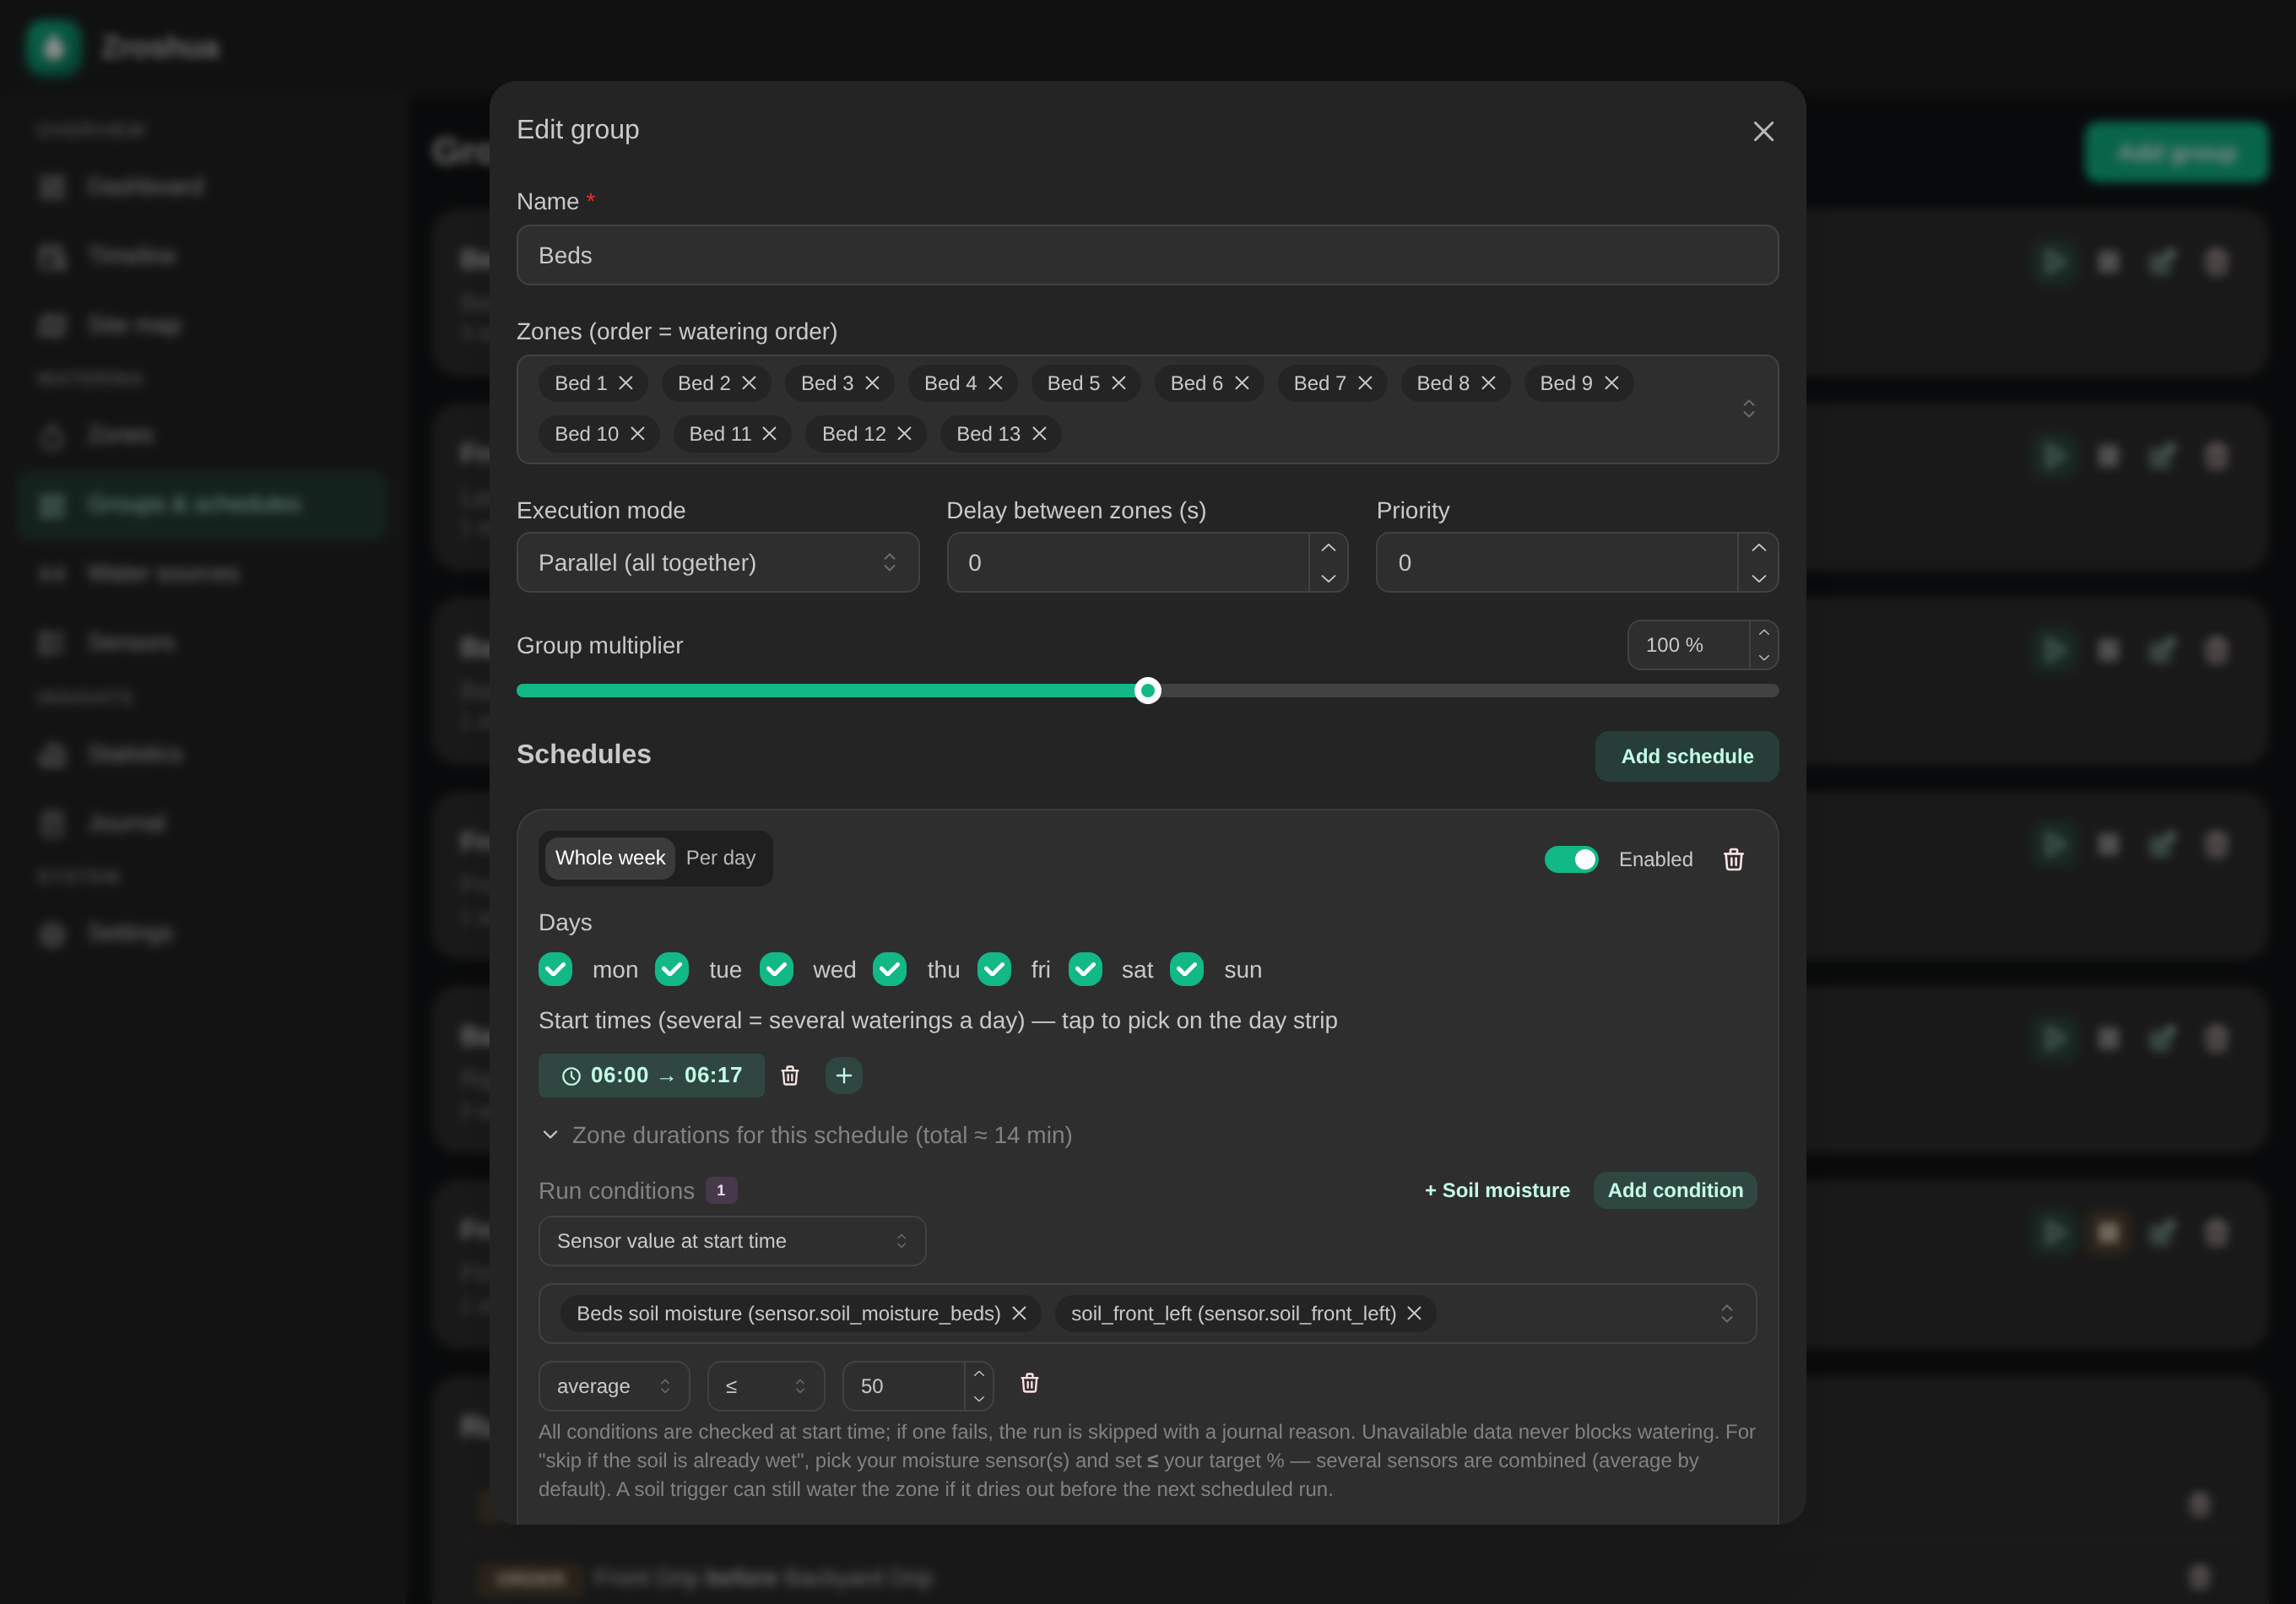
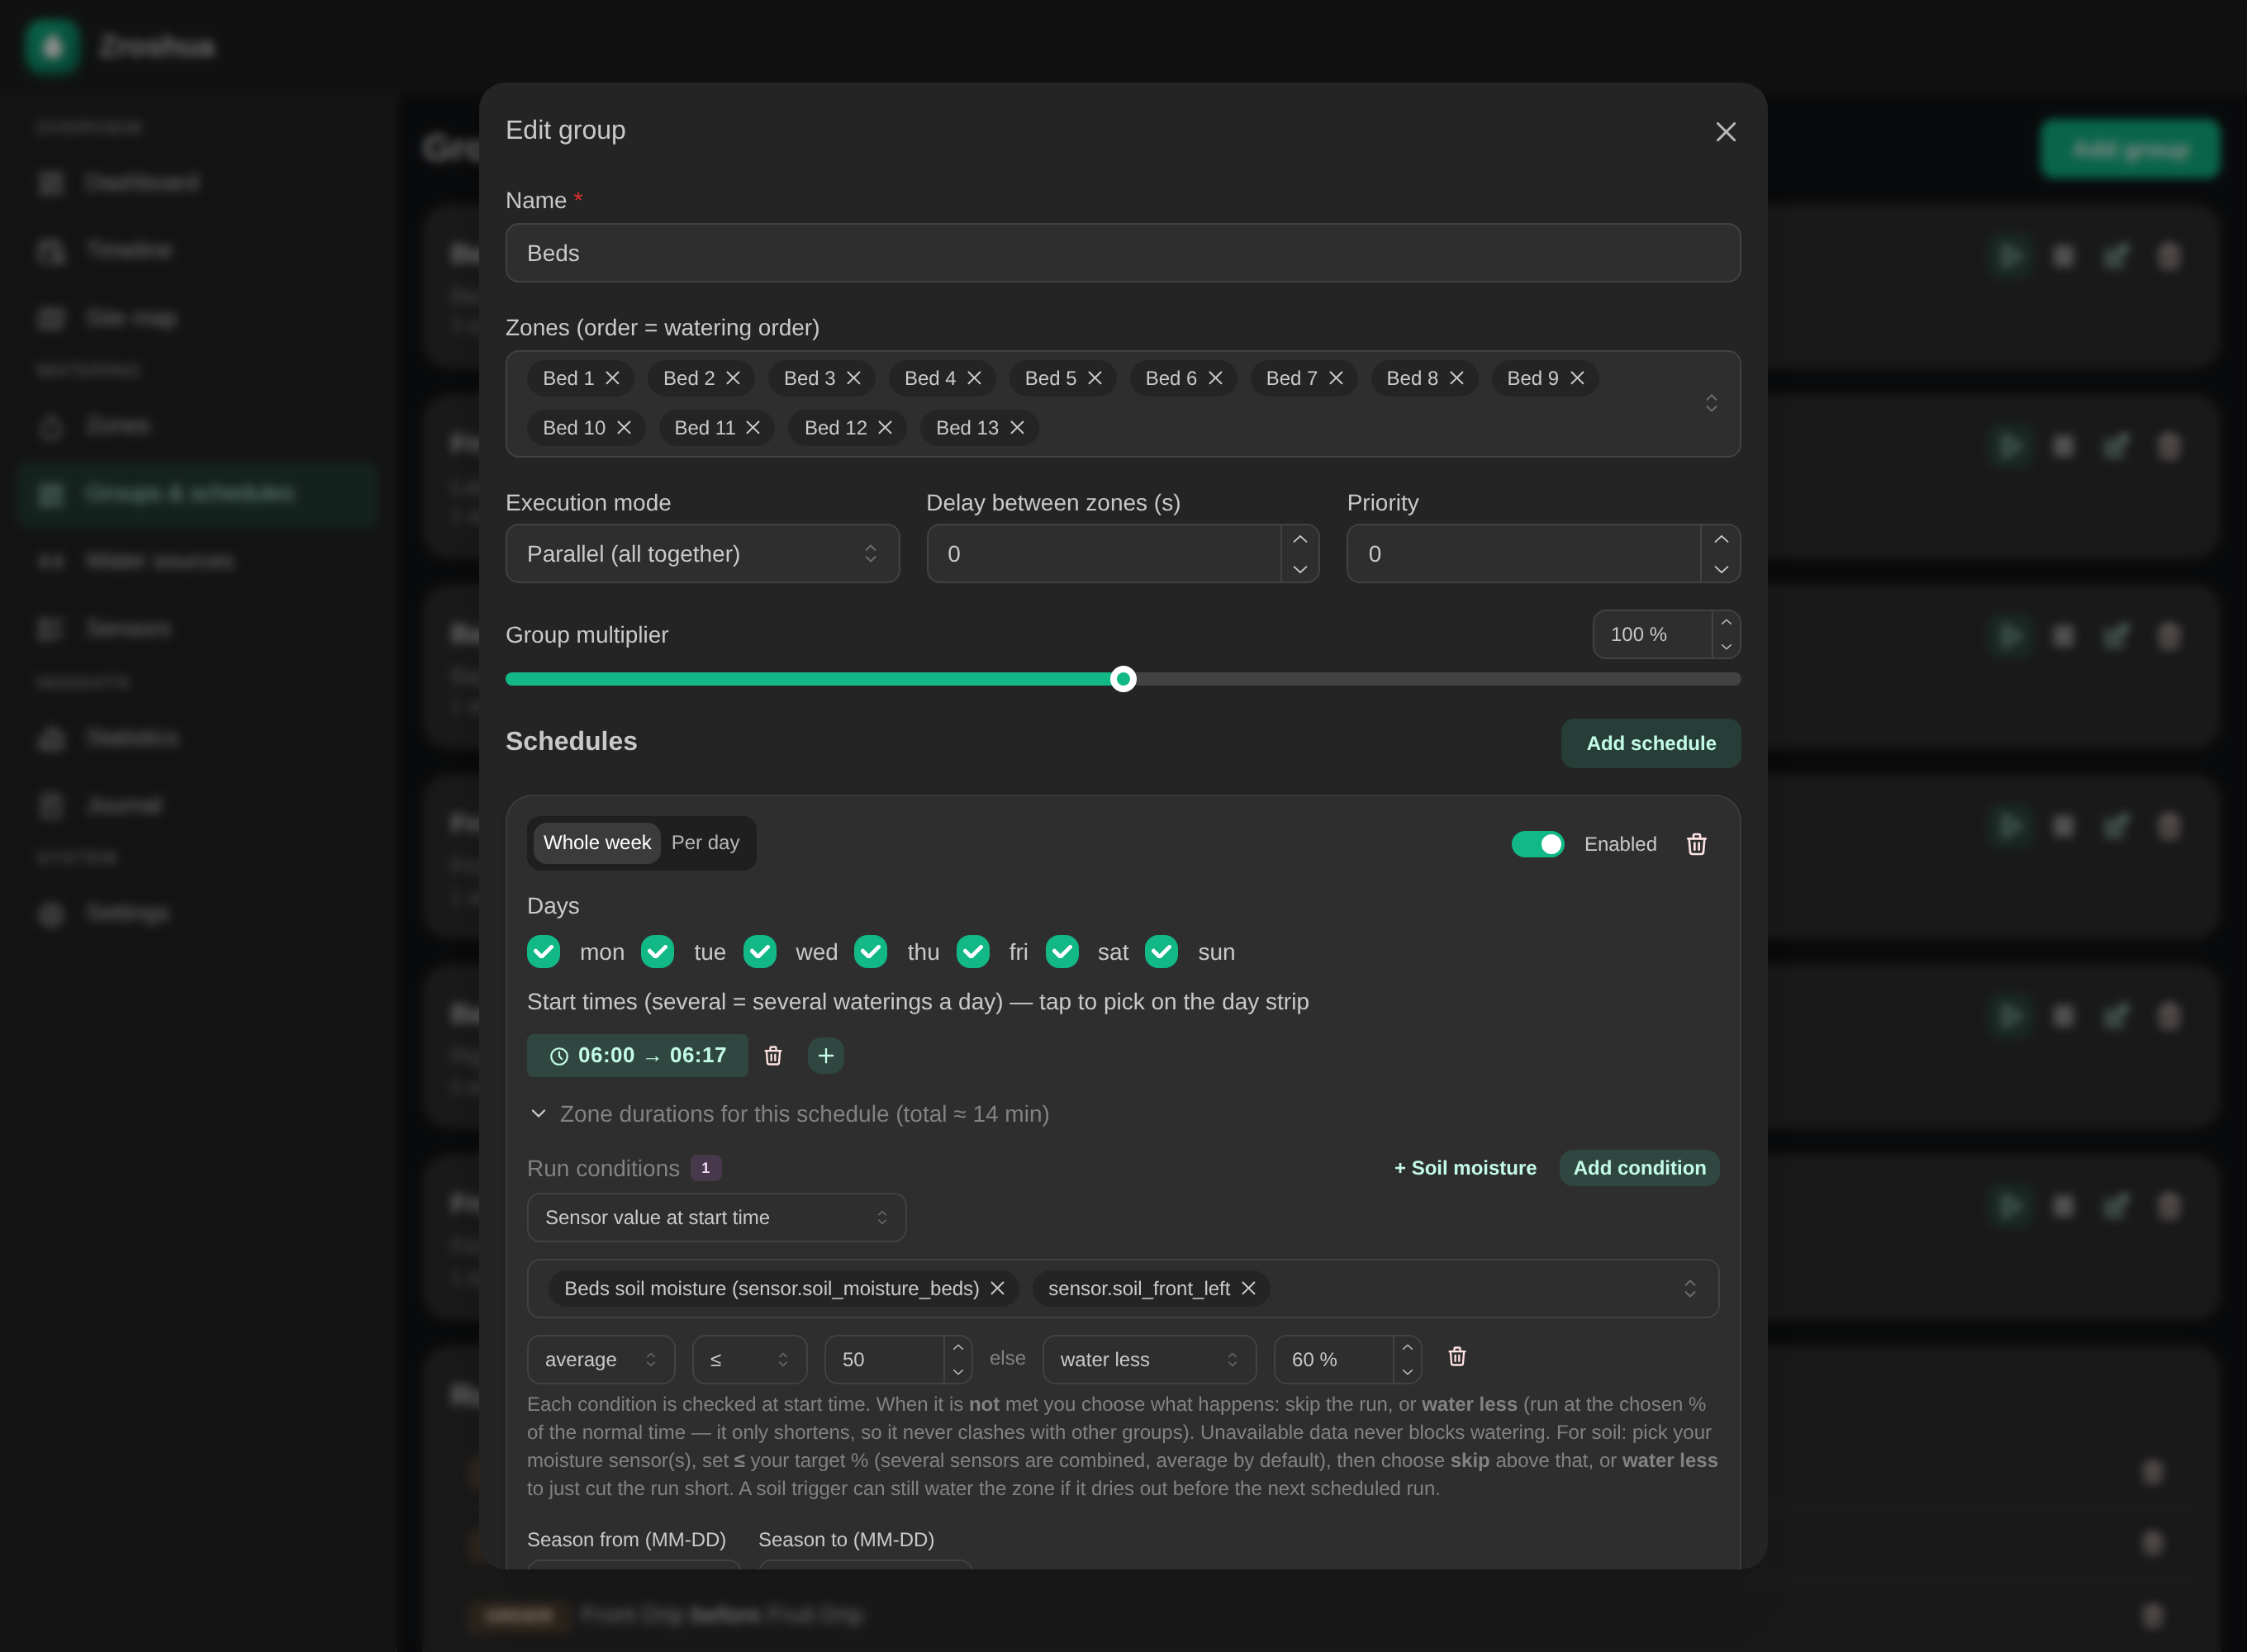
0.2.6: pump post-run behaviour + availability check, condition skip-or-scale
Water source pump:
- pumpAfterRun (off | keep_on | restore): when the last zone of a source
  finishes, turn the pump off (default), leave it on, or restore the state it
  had before Zroshua turned it on (captured on acquire). For pumps that also
  feed the house / water outlets.
- treat the pump as a controller: warn (fault + notify) if it is unavailable
  at start; run continues best-effort.

Run conditions:
- each condition gains an action for when it is not met: 'skip' (default) or
  'scale' (water at scalePct% of the normal time). Scaling only reduces, so it
  stays within the reserved worst-case slot and never conflicts. Applied in
  startGroupRun and startZoneScheduled; scale conditions are excluded from the
  upcoming skip prediction. Clearer condition editor and soil preset copy.

diff --git a/zroshua/backend/src/engine/engine.service.ts b/zroshua/backend/src/engine/engine.service.ts
@@ -546,6 +546,7 @@ export class EngineService implements OnModuleInit, OnModuleDestroy {
       if (decision.skip) return this.skip(groupId, zone.id, 'weather', decision.skipReason ?? 'weather');
       duration = (duration * decision.multiplierPct) / 100;
     }
+    duration *= cond.scale; // soil/sensor "water less" conditions (only reduce)
     duration = Math.min(duration, zone.maxRuntimeMin || duration);
     this.queue.push({
       key: `zsched:${zone.id}:${now}`,
@@ -571,10 +572,11 @@ export class EngineService implements OnModuleInit, OnModuleDestroy {
   private async evaluateConditions(
     schedule: import('../db/entities').Schedule | undefined,
     groupId: string | null,
-  ): Promise<{ pass: boolean; reason?: string }> {
-    if (!schedule?.conditions?.length) return { pass: true };
+  ): Promise<{ pass: boolean; reason?: string; scale: number }> {
+    if (!schedule?.conditions?.length) return { pass: true, scale: 1 };
     const forecast = await this.weather.getForecast().catch(() => []);
     const today = forecast[0];
+    let scale = 1;
     for (const c of schedule.conditions) {
       let actual: number | null = null;
       let label = '';
@@ -604,13 +606,26 @@ export class EngineService implements OnModuleInit, OnModuleDestroy {
       }
       const ok = c.op === 'gte' ? actual >= c.value : actual <= c.value;
       if (!ok) {
+        // action=scale: water for a shorter time instead of skipping (only
+        // reduces, so the run always fits inside the reserved worst-case slot)
+        if (c.action === 'scale') {
+          const pct = Math.max(0, Math.min(100, c.scalePct ?? 50));
+          scale *= pct / 100;
+          await this.journal.add('adjust', {
+            groupId: groupId ?? undefined,
+            code: 'condition_scale',
+            detail: `${label} ${actual.toFixed(1)} ${c.op === 'gte' ? '<' : '>'} ${c.value} → run at ${pct}%`,
+          });
+          continue;
+        }
         return {
           pass: false,
           reason: `${label} ${actual.toFixed(1)} ${c.op === 'gte' ? '<' : '>'} ${c.value} (condition ${c.op === 'gte' ? '≥' : '≤'} ${c.value})`,
+          scale,
         };
       }
     }
-    return { pass: true };
+    return { pass: true, scale };
   }
 
   /**
@@ -647,9 +662,11 @@ export class EngineService implements OnModuleInit, OnModuleDestroy {
         return this.skip(group.id, null, 'group_paused', `group paused until ${new Date(Number(group.snoozeUntil)).toLocaleString()}`);
     }
 
+    let condScale = 1;
     if (!manual) {
       const cond = await this.evaluateConditions(schedule, group.id);
       if (!cond.pass) return this.skip(group.id, null, 'condition', cond.reason ?? 'run condition not met');
+      condScale = cond.scale;
     }
 
     let weatherMult = 100;
@@ -701,6 +718,7 @@ export class EngineService implements OnModuleInit, OnModuleDestroy {
       if (!manual) {
         duration = (duration * group.multiplierPct) / 100;
         if (!zone.ignore?.weather) duration = (duration * weatherMult) / 100;
+        duration *= condScale; // soil/sensor "water less" conditions (only reduce)
         const rollover = await this.config.getKV<number>(`rollover:${zone.id}`, 0);
         duration += rollover;
         if (duration < (zone.minDurationMin ?? 0)) {
@@ -1169,6 +1187,9 @@ export class EngineService implements OnModuleInit, OnModuleDestroy {
 
   // ------------------------------------------------------------------- pump
 
+  /** pump on/off state observed just before Zroshua first turned it on (for 'restore') */
+  private pumpPrevOn = new Map<string, boolean>();
+
   private async acquirePump(src: WaterSource) {
     const refs = (this.pumpRefs.get(src.id) ?? 0) + 1;
     this.pumpRefs.set(src.id, refs);
@@ -1177,24 +1198,36 @@ export class EngineService implements OnModuleInit, OnModuleDestroy {
       clearTimeout(stopTimer);
       this.pumpStopTimers.delete(src.id);
     }
-    if (refs === 1 && src.pumpEntity && !this.ha.isOn(src.pumpEntity)) {
-      await this.ha.turn(src.pumpEntity, true);
-      if (src.pumpStartDelayS > 0) await new Promise((r) => setTimeout(r, src.pumpStartDelayS * 1000));
+    if (refs === 1 && src.pumpEntity) {
+      // treat the pump like a controller: warn if it is unavailable at start
+      if (!this.ha.available(src.pumpEntity)) {
+        await this.journal.add('fault', { code: 'pump_unavailable', detail: `${src.pumpEntity} (${src.name}) is unavailable at start` });
+        await this.notify.emit('fault', `⚠️ Pump "${src.pumpEntity}" for source "${src.name}" is UNAVAILABLE — starting anyway; check the controller.`);
+      }
+      this.pumpPrevOn.set(src.id, this.ha.isOn(src.pumpEntity));
+      if (!this.ha.isOn(src.pumpEntity)) {
+        await this.ha.turn(src.pumpEntity, true);
+        if (src.pumpStartDelayS > 0) await new Promise((r) => setTimeout(r, src.pumpStartDelayS * 1000));
+      }
     }
   }
 
   private async releasePump(src: WaterSource) {
     const refs = Math.max(0, (this.pumpRefs.get(src.id) ?? 1) - 1);
     this.pumpRefs.set(src.id, refs);
-    if (refs === 0 && src.pumpEntity) {
-      const timer = setTimeout(async () => {
-        this.pumpStopTimers.delete(src.id);
-        if ((this.pumpRefs.get(src.id) ?? 0) === 0) {
-          try { await this.ha.turn(src.pumpEntity!, false); } catch { /* retried next run */ }
-        }
-      }, Math.max(0, src.pumpStopDelayS) * 1000);
-      this.pumpStopTimers.set(src.id, timer);
-    }
+    if (refs !== 0 || !src.pumpEntity) return;
+    const mode = src.pumpAfterRun ?? 'off';
+    // 'keep_on' leaves the pump running; 'restore' only turns it off if it was
+    // off before we started (leaves it on if the house was already using it)
+    if (mode === 'keep_on') return;
+    if (mode === 'restore' && this.pumpPrevOn.get(src.id) === true) return;
+    const timer = setTimeout(async () => {
+      this.pumpStopTimers.delete(src.id);
+      if ((this.pumpRefs.get(src.id) ?? 0) === 0) {
+        try { await this.ha.turn(src.pumpEntity!, false); } catch { /* retried next run */ }
+      }
+    }, Math.max(0, src.pumpStopDelayS) * 1000);
+    this.pumpStopTimers.set(src.id, timer);
   }
 
   // ---------------------------------------------------------------- sensors
@@ -1611,6 +1644,7 @@ export class EngineService implements OnModuleInit, OnModuleDestroy {
         }
       }
       for (const c of schedule?.conditions ?? []) {
+        if (c.action === 'scale') continue; // scales the duration, never skips
         const actual = c.kind === 'forecast_max' ? fc.tempMaxC : c.kind === 'forecast_rain_prob' ? fc.precipitationProbability : null;
         if (actual != null && !(c.op === 'gte' ? actual >= c.value : actual <= c.value))
           reasons.push(`condition: forecast ${c.kind === 'forecast_max' ? `${actual}°` : `${actual}%`} not ${c.op === 'gte' ? '≥' : '≤'} ${c.value}`);
@@ -1618,7 +1652,7 @@ export class EngineService implements OnModuleInit, OnModuleDestroy {
     }
     // live-sensor conditions can change by start time — mark as "maybe"
     for (const c of schedule?.conditions ?? []) {
-      if (c.kind !== 'sensor') continue;
+      if (c.kind !== 'sensor' || c.action === 'scale') continue;
       const { value: v, label } = this.sensorCondValue(c);
       if (v != null && !(c.op === 'gte' ? v >= c.value : v <= c.value))
         maybe.push(`${label} now ${v.toFixed(1)} not ${c.op === 'gte' ? '≥' : '≤'} ${c.value}`);

diff --git a/zroshua/frontend/src/components/ScheduleEditor.tsx b/zroshua/frontend/src/components/ScheduleEditor.tsx
@@ -333,6 +333,30 @@ export default function ScheduleEditor({
                 onChange={(v) => setC({ op: (v as 'gte' | 'lte') ?? 'gte' })}
               />
               <NumberInput size="xs" w={90} value={c.value} onChange={(v) => setC({ value: Number(v) || 0 })} />
+              <Text size="xs" c="dimmed" mt={6}>
+                else
+              </Text>
+              <Select
+                size="xs"
+                w={130}
+                data={[
+                  { value: 'skip', label: 'skip the run' },
+                  { value: 'scale', label: 'water less' },
+                ]}
+                value={c.action ?? 'skip'}
+                onChange={(v) => setC({ action: (v as 'skip' | 'scale') ?? 'skip', scalePct: v === 'scale' ? (c.scalePct ?? 50) : undefined })}
+              />
+              {c.action === 'scale' && (
+                <NumberInput
+                  size="xs"
+                  w={90}
+                  min={0}
+                  max={100}
+                  suffix=" %"
+                  value={c.scalePct ?? 50}
+                  onChange={(v) => setC({ scalePct: Math.max(0, Math.min(100, Number(v) || 0)) })}
+                />
+              )}
               <ActionIcon
                 size="sm"
                 variant="subtle"
@@ -347,10 +371,12 @@ export default function ScheduleEditor({
         })}
         {(schedule.conditions?.length ?? 0) > 0 && (
           <Text size="xs" c="dimmed">
-            All conditions are checked at start time; if one fails, the run is skipped with a journal reason.
-            Unavailable data never blocks watering. For "skip if the soil is already wet", pick your moisture
-            sensor(s) and set <b>≤</b> your target % — several sensors are combined (average by default). A soil
-            trigger can still water the zone if it dries out before the next scheduled run.
+            Each condition is checked at start time. When it is <b>not</b> met you choose what happens: skip the
+            run, or <b>water less</b> (run at the chosen % of the normal time — it only shortens, so it never
+            clashes with other groups). Unavailable data never blocks watering. For soil: pick your moisture
+            sensor(s), set <b>≤</b> your target % (several sensors are combined, average by default), then choose
+            <b> skip</b> above that, or <b>water less</b> to just cut the run short. A soil trigger can still water
+            the zone if it dries out before the next scheduled run.
           </Text>
         )}
       </Stack>

diff --git a/zroshua/frontend/src/pages/SourcesPage.tsx b/zroshua/frontend/src/pages/SourcesPage.tsx
@@ -118,6 +118,19 @@ export default function SourcesPage() {
                 onChange={(v) => setEditing({ ...editing, pumpStopDelayS: Number(v) || 0 })}
               />
             </Group>
+            {editing.pumpEntity && (
+              <Select
+                label="When the run finishes"
+                description="Use “Keep on” or “Restore” if the pump also feeds the house / water outlets and must not be switched off."
+                data={[
+                  { value: 'off', label: 'Turn the pump off' },
+                  { value: 'keep_on', label: 'Leave the pump on' },
+                  { value: 'restore', label: 'Restore the state it had before (off only if it was off)' },
+                ]}
+                value={editing.pumpAfterRun ?? 'off'}
+                onChange={(v) => setEditing({ ...editing, pumpAfterRun: (v as 'off' | 'keep_on' | 'restore') ?? 'off' })}
+              />
+            )}
             <EntitySelect
               label="Energy meter (W or kWh sensor, counted only during watering)"
               value={editing.energyEntity ?? null}

diff --git a/zroshua/backend/src/db/entities.ts b/zroshua/backend/src/db/entities.ts
@@ -40,6 +40,10 @@ export type ScheduleCondition = {
   agg?: 'avg' | 'min' | 'max'; // how to combine `entities` (default avg)
   op: 'gte' | 'lte';
   value: number;
+  /** what to do when the condition is NOT met: skip the run (default) or water for a shorter time */
+  action?: 'skip' | 'scale';
+  /** for action=scale: percentage of the normal duration to run instead of skipping (0–100) */
+  scalePct?: number;
 };
 export type Schedule = {
   id: string;
@@ -93,6 +97,10 @@ export class WaterSource {
   @Column({ type: 'varchar', nullable: true }) pumpEntity: string | null;
   @Column('float', { default: 0 }) pumpStartDelayS: number;
   @Column('float', { default: 0 }) pumpStopDelayS: number;
+  // what to do with the pump when the last zone of this source finishes:
+  // 'off' (default) turn it off, 'keep_on' leave it running, 'restore' put it
+  // back to the state it had before Zroshua turned it on
+  @Column({ type: 'varchar', nullable: true }) pumpAfterRun: 'off' | 'keep_on' | 'restore' | null;
   @Column('float', { nullable: true }) maxFlowLpm: number | null;
   @Column({ type: 'varchar', nullable: true }) energyEntity: string | null;
   @Column('simple-json', { nullable: true }) energyTail: EnergyTail;

diff --git a/zroshua/frontend/src/api.ts b/zroshua/frontend/src/api.ts
@@ -65,6 +65,10 @@ export interface ScheduleCondition {
   agg?: 'avg' | 'min' | 'max';
   op: 'gte' | 'lte';
   value: number;
+  /** when the condition is not met: skip the run (default) or water for a shorter time */
+  action?: 'skip' | 'scale';
+  /** for action=scale: % of the normal duration to run instead of skipping (0–100) */
+  scalePct?: number;
 }
 
 export interface Schedule {
@@ -111,6 +115,7 @@ export interface WaterSource {
   pumpEntity: string | null;
   pumpStartDelayS: number;
   pumpStopDelayS: number;
+  pumpAfterRun: 'off' | 'keep_on' | 'restore' | null;
   maxFlowLpm: number | null;
   energyEntity: string | null;
   energyTail: { minutes: number; afterGroups: Record<string, boolean> } | null;

diff --git a/README.md b/README.md
@@ -140,9 +140,14 @@ Every schedule (group or zone) can carry criteria checked at start time — all 
 - **Forecast max temperature today** ≥ / ≤ X °C (e.g. run the midday cooling cycle only in heat),
 - **Forecast rain probability** ≥ / ≤ X %,
 - **Sensor value(s)** at start time — one sensor, or **several combined** (average / min /
-  max). The one-tap **Soil moisture** preset drops in a *sensor(s) ≤ %* condition: skip the
-  scheduled run while the bed is already moist. It's safe to skip — a **soil-moisture
-  trigger** still waters the zone if it dries out before the next scheduled run.
+  max). The one-tap **Soil moisture** preset drops in a *sensor(s) ≤ %* condition.
+
+For each condition you choose what happens when it is **not** met: **skip the run**, or
+**water less** — run at a chosen % of the normal time instead of skipping. "Water less" only
+*shortens* the run, so it always fits inside the reserved worst-case slot and never clashes
+with another group. So the Soil-moisture preset can either skip when the bed is already moist,
+or just trim the run. Either way it's safe — a **soil-moisture trigger** still waters the zone
+if it dries out before the next scheduled run.
 
 Failures are journaled and notified; **unavailable data never blocks watering** — a dead
 sensor won't leave the garden dry.
@@ -177,6 +182,15 @@ runs (reference-counted, with start/stop delays), a **dependency** on another so
 ("blocked while that source runs"), a *water available* sensor, an optional flow sensor with
 an idle-flow leak alert, an **energy meter** and a configurable **refill tail** (count pump
 energy for N minutes after selected groups finish — e.g. while the barrel refills).
+
+**Pump after a run**: choose what happens when the last zone finishes — *turn the pump off*
+(default), *leave it on*, or *restore the state it had before* (only switch off if it was
+off before Zroshua started it). Use *leave on* / *restore* when the pump also feeds the house
+or water outlets and must not be cut. The pump doubles as a **controller availability check**:
+if it is `unavailable` at start (or within the pre-start window), you get a fault
+notification and the run continues best-effort.
+
+![Water source: pump behaviour after a run](docs/screenshots/sources-pump.png)
 
 **Source exclusivity**: mark sources that must *never run at the same time* (a well pump and
 a barrel pump on one power line, or a barrel refilled by the well) and the mutual exclusion

diff --git a/zroshua/CHANGELOG.md b/zroshua/CHANGELOG.md
@@ -1,5 +1,21 @@
 # Changelog
 
+## 0.2.6
+
+- **Pump: choose what happens after a run.** A source's pump entity no longer
+  always switches off when watering ends. Per source, pick *turn off* (default),
+  *leave on*, or *restore the state it had before Zroshua turned it on* — for
+  pumps that also feed the house or water outlets and must not be cut.
+- **Pump availability check.** If the pump entity is `unavailable` at start, the
+  run raises a fault notification and continues best-effort (in addition to the
+  existing pre-start availability check that flags it before a scheduled start).
+- **Conditions: skip *or* water less.** Every run condition now has an explicit
+  action for when it is not met — *skip the run* (as before) or *water less*: run
+  at a chosen % of the normal time. "Water less" only shortens a run, so it stays
+  inside the reserved worst-case slot and never clashes with another group. The
+  soil-moisture condition reads more clearly as a result ("sensors ≤ X% → else
+  skip / water less").
+
 ## 0.2.5
 
 - **Cleaner group tiles in the Lovelace card.** The tile header showed the

diff --git a/zroshua/DOCS.md b/zroshua/DOCS.md
@@ -44,6 +44,12 @@ and applies instantly without restarts.
     fault that names the direction (higher → possible burst pipe, lower → clogged emitters
     or low pressure), at most once an hour. Zones without a known flow rate disable the
     check while they run.
+  - **Pump after a run**: when the last zone of the source finishes, the pump can be turned
+    off (default), left on, or restored to the state it had before Zroshua turned it on
+    (only switched off if it was off to begin with). Use *leave on* / *restore* when the pump
+    also feeds the house or water outlets. The pump is also treated as a controller: if it is
+    `unavailable` at start it raises a fault notification and the run continues best-effort
+    (the pre-start availability check already flags it ahead of a scheduled start).
 - **Group** — an ordered set of zones with schedules. Execution mode: sequential,
   parallel, or parallel with a limit; inter-zone delay; a 0–200 % duration multiplier;
   priority for queue conflicts.
@@ -83,10 +89,12 @@ and applies instantly without restarts.
 - **Run conditions**: a schedule (group or zone) can require e.g. forecast max
   ≥ 30 °C, rain probability ≤ 40 %, or a live sensor value at start time. A sensor
   condition can read **several sensors combined** (average / min / max) — the one-tap
-  **Soil moisture** preset adds a *sensor(s) ≤ %* rule that skips the run while the bed is
-  already moist. Skipping is safe: a **soil-moisture trigger** still waters the zone if it
-  dries out before the next scheduled run. All conditions must pass; failures are journaled,
-  missing data is ignored.
+  **Soil moisture** preset adds a *sensor(s) ≤ %* rule. For each condition you pick what
+  happens when it is **not** met: **skip the run**, or **water less** — run at a chosen % of
+  the normal time. "Water less" only shortens the run, so it stays inside the reserved
+  worst-case slot and never clashes with other groups. Skipping (or trimming) is safe: a
+  **soil-moisture trigger** still waters the zone if it dries out before the next scheduled
+  run. Failures are journaled; missing data is ignored (never blocks watering).
 - **Upcoming waterings** (dashboard and card) list group runs **and** a zone's own
   schedules, each with a skip prediction. Every row has a pause menu — *skip this run*
   (pauses the group or zone only until that run is past), pause 6/12/24 h, or resume.